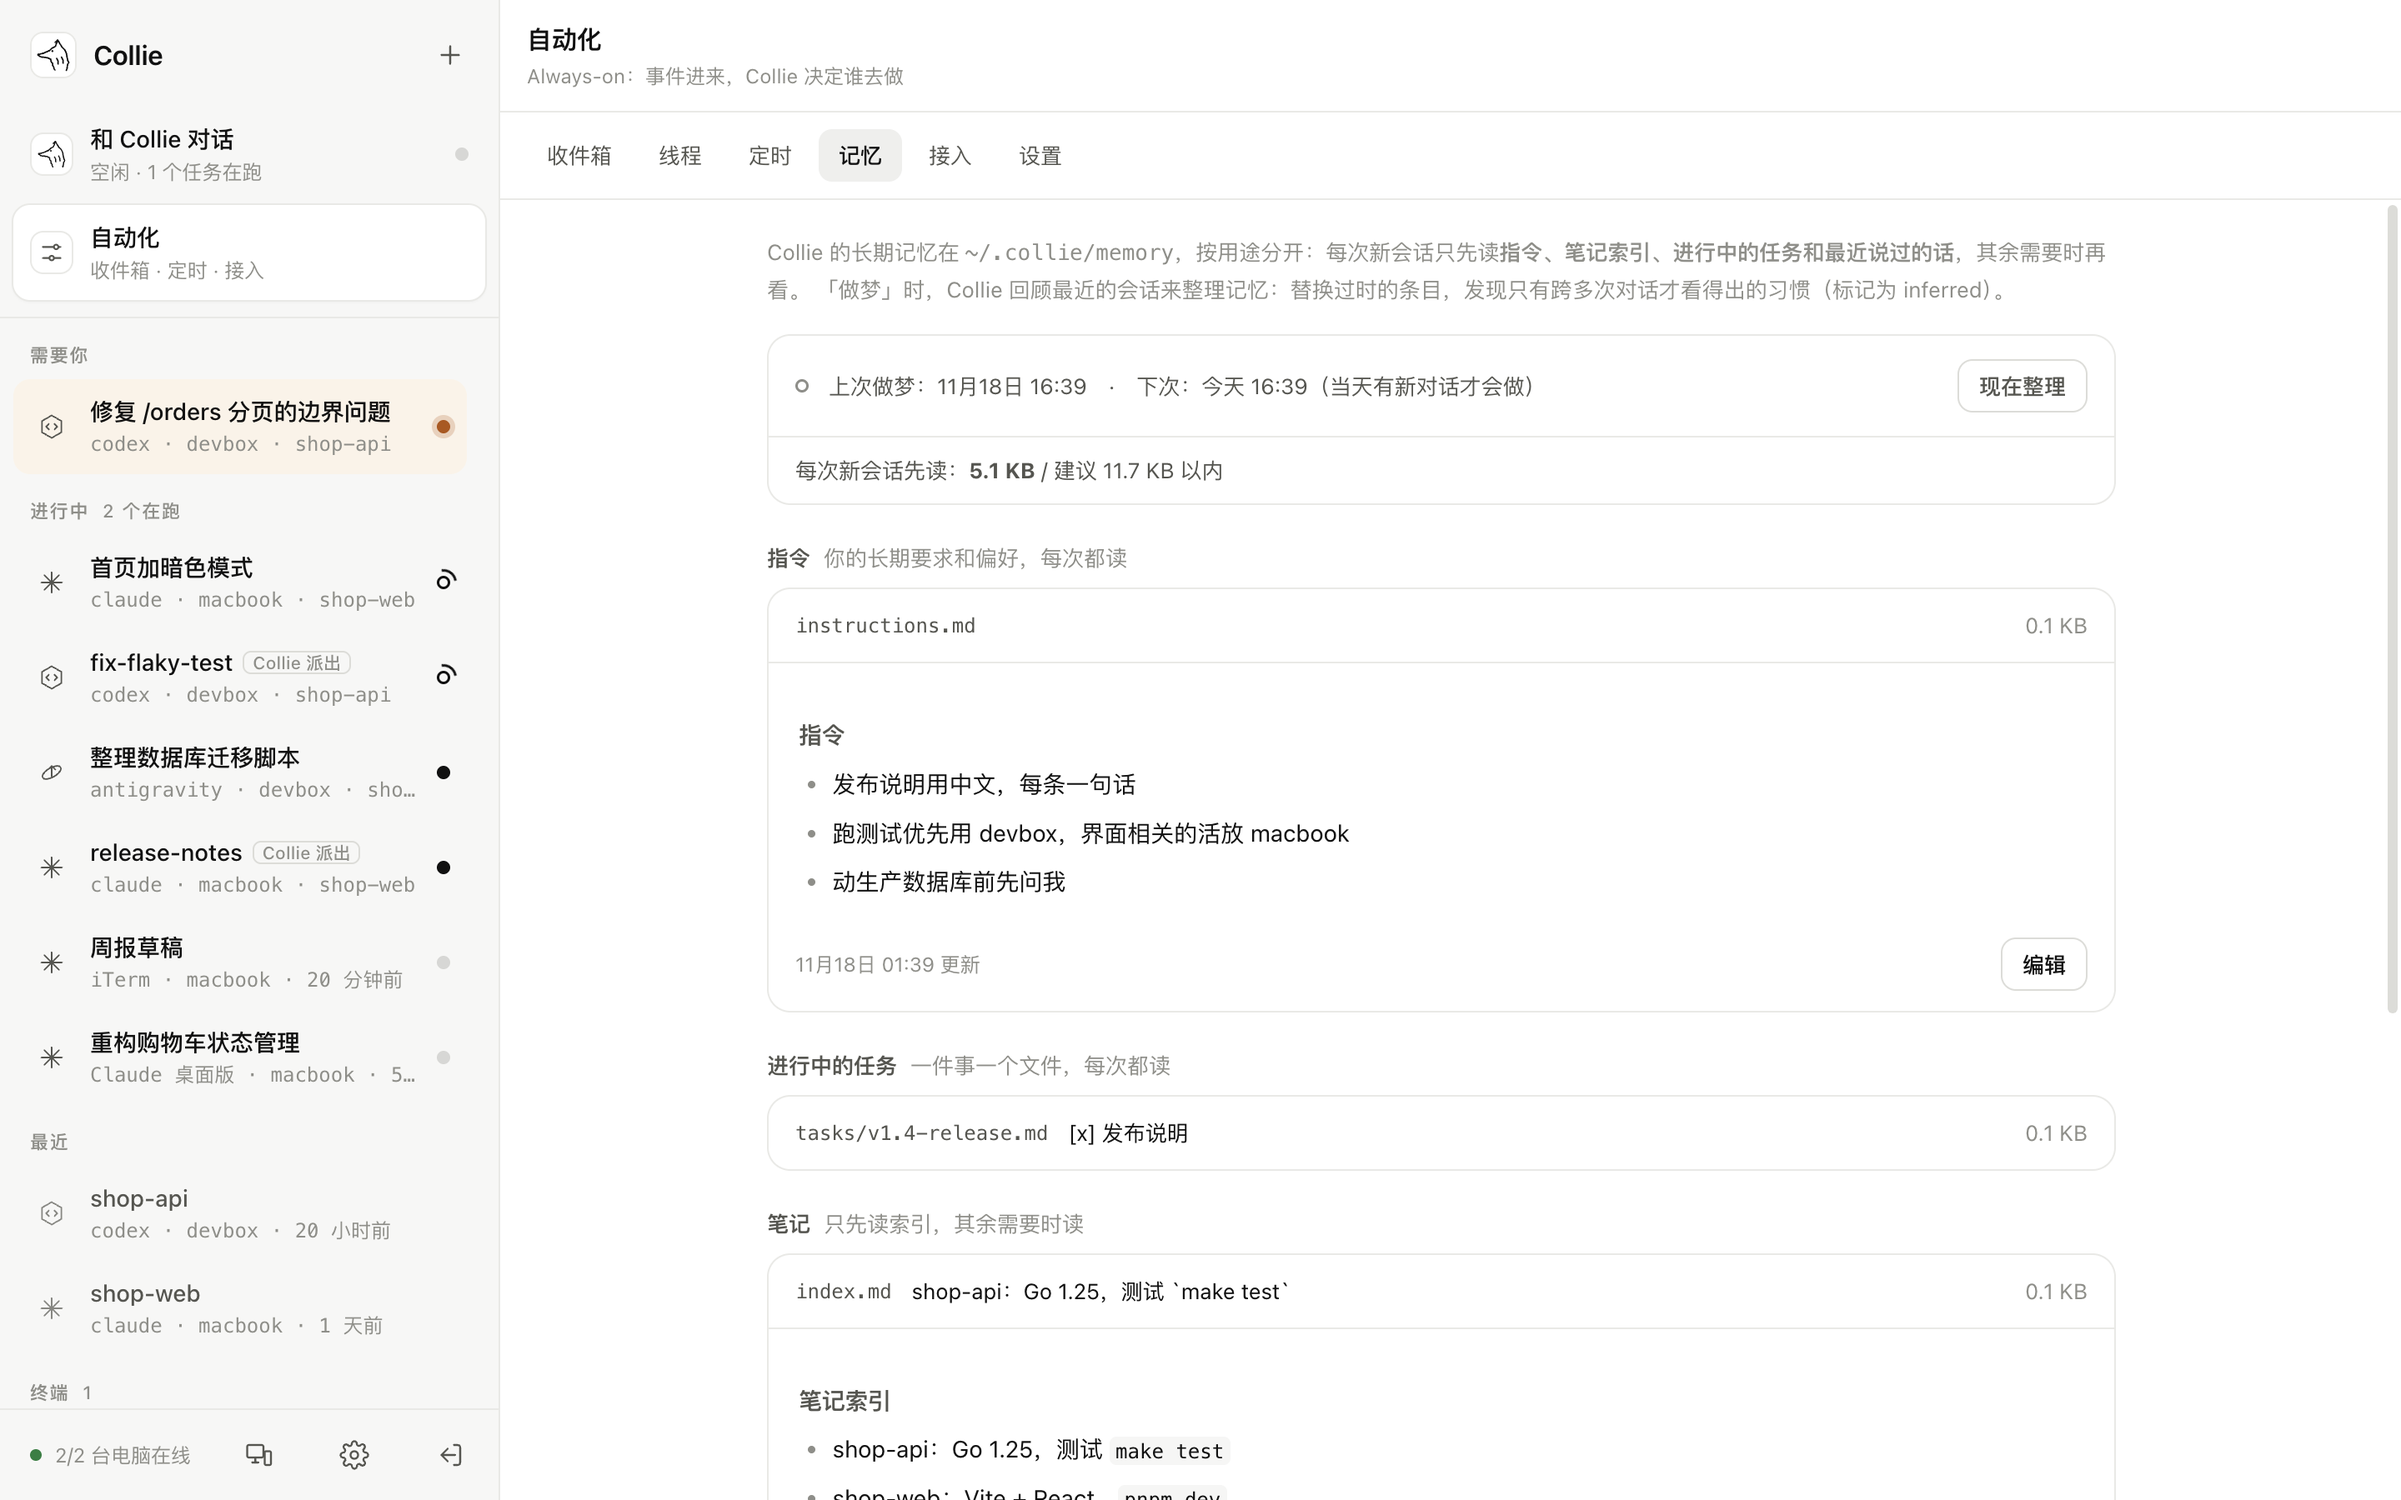
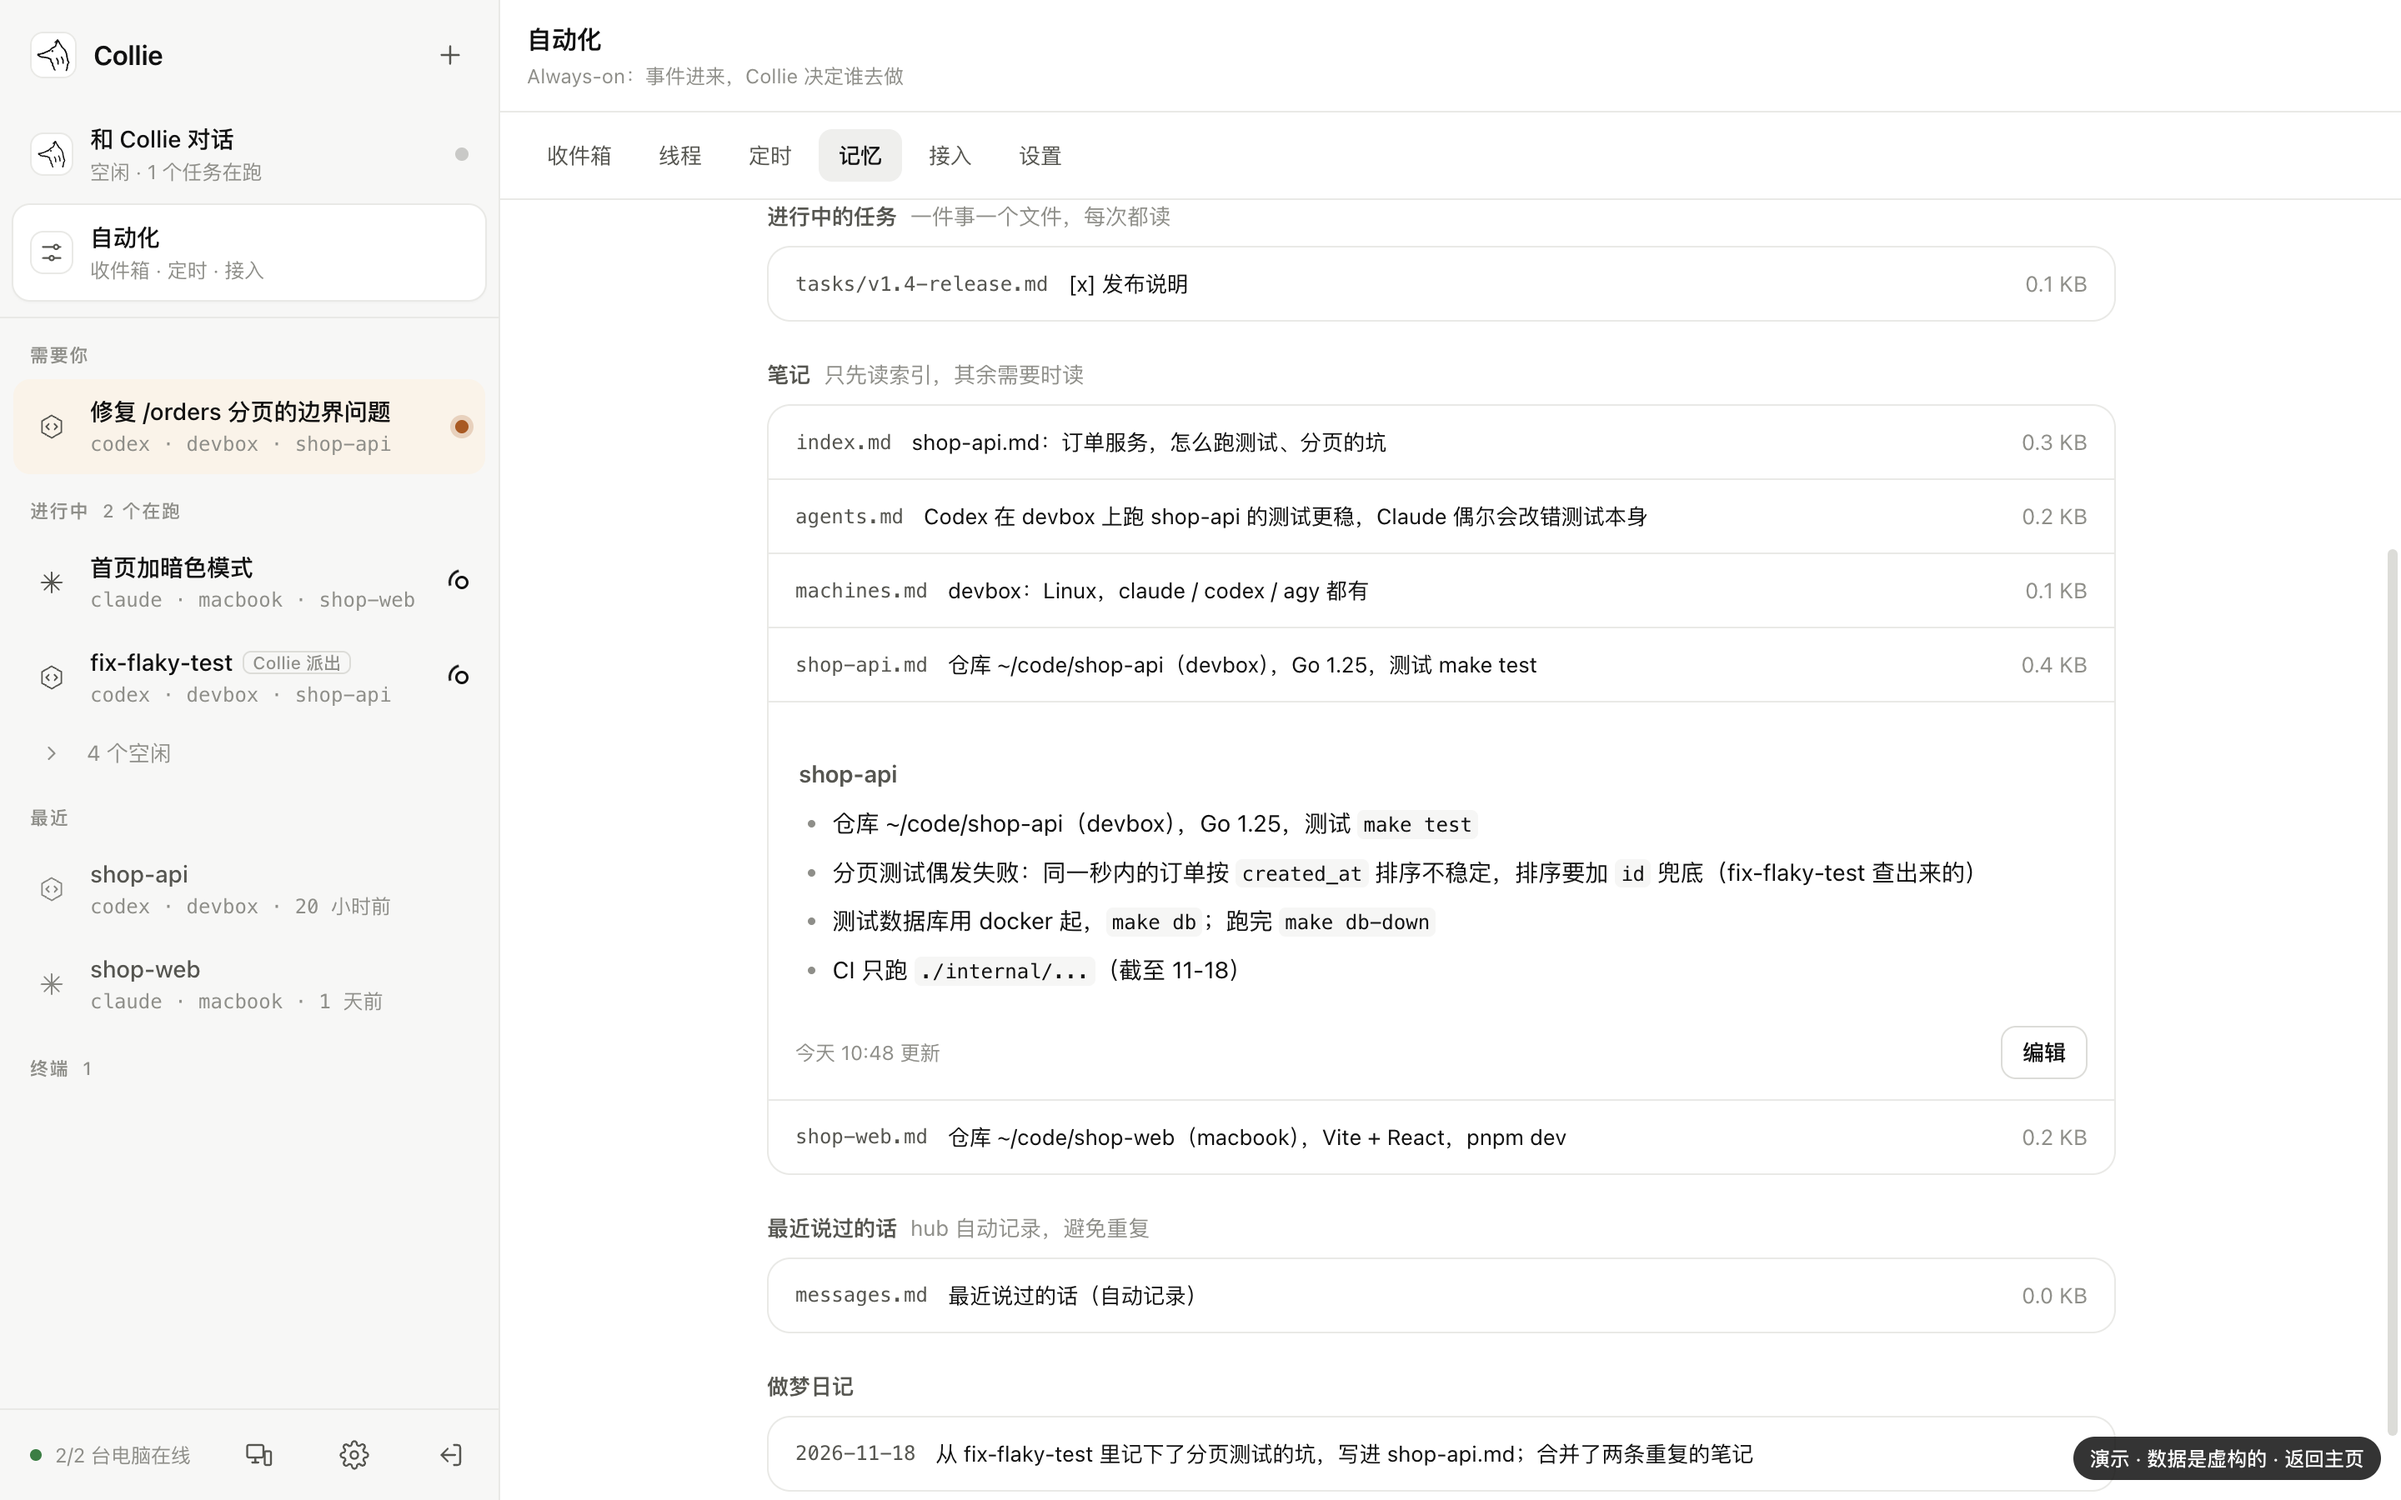
Homepage and README: Collie learns from finished work; memory screenshot shows project notes

diff --git a/docs/demo/demo.js b/docs/demo/demo.js
@@ -146,12 +146,16 @@
   const memFile = (name, text, min) => ({ name, text, size: text.length * 2, mod: ago(min) });
   const memory = {
     dir: "~/.collie", loaded: 5200, budget: 12000, dreaming: false, last_dream: ago(60 * 9), next_dream: later(60 * 15), dreams: [
-      { name: "2026-11-18.md", text: "# 昨天\n- 你更喜欢先在 devbox 上跑测试，再在 Mac 上看界面（inferred）\n- 合并了两条重复的笔记" },
+      { name: "2026-11-18.md", text: "从 fix-flaky-test 里记下了分页测试的坑，写进 shop-api.md；合并了两条重复的笔记\n\n- shop-api.md：同一秒内的订单按 created_at 排序不稳定，要加 id 兜底\n- agents.md：Codex 在 devbox 上跑 shop-api 的测试更稳\n- 你更喜欢先在 devbox 上跑测试，再在 Mac 上看界面（inferred）" },
     ],
     files: [
       memFile("instructions.md", "# 指令\n- 发布说明用中文，每条一句话\n- 跑测试优先用 devbox，界面相关的活放 macbook\n- 动生产数据库前先问我", 60 * 24),
       memFile("tasks/v1.4-release.md", "# v1.4 发布\n- [x] 发布说明\n- [ ] 分页测试修复（fix-flaky-test）\n- [ ] 开 PR", 6),
-      memFile("notes/index.md", "# 笔记索引\n- shop-api：Go 1.25，测试 `make test`\n- shop-web：Vite + React，`pnpm dev`", 60 * 30),
+      memFile("notes/index.md", "# 笔记索引\n- shop-api.md：订单服务，怎么跑测试、分页的坑\n- shop-web.md：前端，怎么起、发布说明放哪\n- agents.md：哪个 agent 在哪台电脑上好用\n- machines.md：devbox 和 macbook 各装了什么", 60 * 30),
+      memFile("notes/shop-api.md", "# shop-api\n- 仓库 ~/code/shop-api（devbox），Go 1.25，测试 `make test`\n- 分页测试偶发失败：同一秒内的订单按 `created_at` 排序不稳定，排序要加 `id` 兜底（fix-flaky-test 查出来的）\n- 测试数据库用 docker 起，`make db`；跑完 `make db-down`\n- CI 只跑 `./internal/...`（截至 11-18）", 60 * 9),
+      memFile("notes/shop-web.md", "# shop-web\n- 仓库 ~/code/shop-web（macbook），Vite + React，`pnpm dev`\n- 发布说明写在 CHANGELOG.md，按「需要注意 / 改动」两段", 60 * 30),
+      memFile("notes/agents.md", "# agent 经验\n- Codex 在 devbox 上跑 shop-api 的测试更稳，Claude 偶尔会改错测试本身\n- 界面相关的活给 macbook 上的 Claude\n- macbook 上没装 Antigravity", 60 * 9),
+      memFile("notes/machines.md", "# 电脑\n- devbox：Linux，claude / codex / agy 都有\n- macbook：claude、codex；周末常关机", 60 * 24 * 3),
       memFile("messages.md", "最近说过的话（自动记录）", 5),
     ],
   };

diff --git a/scripts/demo/demo.js b/scripts/demo/demo.js
@@ -146,12 +146,16 @@
   const memFile = (name, text, min) => ({ name, text, size: text.length * 2, mod: ago(min) });
   const memory = {
     dir: "~/.collie", loaded: 5200, budget: 12000, dreaming: false, last_dream: ago(60 * 9), next_dream: later(60 * 15), dreams: [
-      { name: "2026-11-18.md", text: "# 昨天\n- 你更喜欢先在 devbox 上跑测试，再在 Mac 上看界面（inferred）\n- 合并了两条重复的笔记" },
+      { name: "2026-11-18.md", text: "从 fix-flaky-test 里记下了分页测试的坑，写进 shop-api.md；合并了两条重复的笔记\n\n- shop-api.md：同一秒内的订单按 created_at 排序不稳定，要加 id 兜底\n- agents.md：Codex 在 devbox 上跑 shop-api 的测试更稳\n- 你更喜欢先在 devbox 上跑测试，再在 Mac 上看界面（inferred）" },
     ],
     files: [
       memFile("instructions.md", "# 指令\n- 发布说明用中文，每条一句话\n- 跑测试优先用 devbox，界面相关的活放 macbook\n- 动生产数据库前先问我", 60 * 24),
       memFile("tasks/v1.4-release.md", "# v1.4 发布\n- [x] 发布说明\n- [ ] 分页测试修复（fix-flaky-test）\n- [ ] 开 PR", 6),
-      memFile("notes/index.md", "# 笔记索引\n- shop-api：Go 1.25，测试 `make test`\n- shop-web：Vite + React，`pnpm dev`", 60 * 30),
+      memFile("notes/index.md", "# 笔记索引\n- shop-api.md：订单服务，怎么跑测试、分页的坑\n- shop-web.md：前端，怎么起、发布说明放哪\n- agents.md：哪个 agent 在哪台电脑上好用\n- machines.md：devbox 和 macbook 各装了什么", 60 * 30),
+      memFile("notes/shop-api.md", "# shop-api\n- 仓库 ~/code/shop-api（devbox），Go 1.25，测试 `make test`\n- 分页测试偶发失败：同一秒内的订单按 `created_at` 排序不稳定，排序要加 `id` 兜底（fix-flaky-test 查出来的）\n- 测试数据库用 docker 起，`make db`；跑完 `make db-down`\n- CI 只跑 `./internal/...`（截至 11-18）", 60 * 9),
+      memFile("notes/shop-web.md", "# shop-web\n- 仓库 ~/code/shop-web（macbook），Vite + React，`pnpm dev`\n- 发布说明写在 CHANGELOG.md，按「需要注意 / 改动」两段", 60 * 30),
+      memFile("notes/agents.md", "# agent 经验\n- Codex 在 devbox 上跑 shop-api 的测试更稳，Claude 偶尔会改错测试本身\n- 界面相关的活给 macbook 上的 Claude\n- macbook 上没装 Antigravity", 60 * 9),
+      memFile("notes/machines.md", "# 电脑\n- devbox：Linux，claude / codex / agy 都有\n- macbook：claude、codex；周末常关机", 60 * 24 * 3),
       memFile("messages.md", "最近说过的话（自动记录）", 5),
     ],
   };

diff --git a/docs/index.html b/docs/index.html
@@ -246,7 +246,7 @@ footer a { color: var(--fg-2); }
           <ul>
             <li>选哪个 agent、哪台电脑、哪个模型，它根据上下文自己定</li>
             <li>GitHub 评论、飞书消息、定时器都能变成任务</li>
-            <li>长期记忆：记住你的偏好，每晚「做梦」整理一次</li>
+            <li>越用越会派活：记住你的偏好和每次干活的经验，下次派活直接带上</li>
           </ul>
         </div>
         <div class="shot"><picture><img src="img/hero-light.png" alt="和 Collie 对话：派出两个 worker，一个已经回报" loading="lazy"></picture></div>
@@ -287,7 +287,7 @@ footer a { color: var(--fg-2); }
           <h3>事件进来，Collie 决定谁去做</h3>
           <p>你的消息、webhook、定时器和 worker 的回报都进同一个收件箱。先按来源策略过滤，订阅了线程的 worker 直接收到，其余交给 Collie 判断。</p>
           <ul>
-            <li>记忆按用途分开：指令、进行中的任务、笔记，每次只先读需要的</li>
+            <li>记忆按用途分开：你的偏好、进行中的任务、按项目整理的笔记，每晚「做梦」整理一次</li>
             <li>所有状态都在 SQLite，Collie 随时可以重启，事件不会丢</li>
           </ul>
         </div>

diff --git a/docs/demo/app.js b/docs/demo/app.js
@@ -813,7 +813,7 @@
     const over = r.loaded > r.budget;
     const dream = r.dreaming ? `<b>Collie 正在做梦</b>：回顾最近的对话，整理记忆。整理完会自己醒来，期间的消息会先攒着。`
       : `上次做梦：${r.last_dream ? dayTime(r.last_dream) : "还没有"}　·　下次：${r.next_dream ? dayTime(r.next_dream) + "（当天有新对话才会做）" : "已关闭"}`;
-    const firstLine = (t, dflt) => t.split("\n").filter((l) => !/^\s*#/.test(l)).map((l) => l.replace(/^[>*\-\s]+/, "").trim()).find(Boolean) || dflt;
+    const firstLine = (t, dflt) => t.split("\n").filter((l) => !/^\s*#/.test(l)).map((l) => l.replace(/^[>*\-\s]+/, "").replace(/`|\*\*/g, "").trim()).find(Boolean) || dflt;
     const card = (f, o = {}) => {
       const edit = !f.legacy && o.edit !== false;
       return `<details class="mem-fold" ${o.open ? "open" : ""} data-path="${esc(f.name)}"><summary>

diff --git a/web/app.js b/web/app.js
@@ -813,7 +813,7 @@
     const over = r.loaded > r.budget;
     const dream = r.dreaming ? `<b>Collie 正在做梦</b>：回顾最近的对话，整理记忆。整理完会自己醒来，期间的消息会先攒着。`
       : `上次做梦：${r.last_dream ? dayTime(r.last_dream) : "还没有"}　·　下次：${r.next_dream ? dayTime(r.next_dream) + "（当天有新对话才会做）" : "已关闭"}`;
-    const firstLine = (t, dflt) => t.split("\n").filter((l) => !/^\s*#/.test(l)).map((l) => l.replace(/^[>*\-\s]+/, "").trim()).find(Boolean) || dflt;
+    const firstLine = (t, dflt) => t.split("\n").filter((l) => !/^\s*#/.test(l)).map((l) => l.replace(/^[>*\-\s]+/, "").replace(/`|\*\*/g, "").trim()).find(Boolean) || dflt;
     const card = (f, o = {}) => {
       const edit = !f.legacy && o.edit !== false;
       return `<details class="mem-fold" ${o.open ? "open" : ""} data-path="${esc(f.name)}"><summary>

diff --git a/README.md b/README.md
@@ -25,6 +25,7 @@ Claude Code · Codex · Antigravity — 一个 hub，多台电脑，一个会自
 - **所有电脑合在一处** — Mac、开发机、云电脑连到一个 hub；电脑主动连出去，不开端口、不配 SSH，在 NAT 后面也行
 - **读真正的对话** — 直接读 agent 自己的会话记录，终端变成清晰的对话；也能切到原样的屏幕和日志
 - **自己往前推** — worker 失败了重试、换模型、换思路；只有花钱、删东西、发布这类事才停下来问你
+- **越用越会派活** — 记住你的偏好和每次干活的经验：数据在哪、怎么做的、踩过的坑、哪个 agent 在哪台电脑上好用，下次派活直接带上
 - **一个二进制，数据在你手里** — 单个 Go 程序 + SQLite，前端内嵌；每台设备一个令牌，随时移除；不经过第三方服务
 
 <table>
@@ -230,7 +231,7 @@ Collie 同时支持 herdr 0.8 和 0.9：
 | `node.json` | 仅 node：hub 地址、本机 id 和令牌 |
 | `token` | 访问令牌 |
 | `addr` | 当前监听地址，供 CLI 使用 |
-| `router/` | Router 的工作目录：`ROUTER.md`（操作手册，同时写成 CLAUDE.md / AGENTS.md / GEMINI.md）、`memory.md`（长期记忆） |
+| `router/` | Router 的工作目录：`ROUTER.md`（操作手册，同时写成 CLAUDE.md / AGENTS.md / GEMINI.md）、`memory/`（长期记忆：你的偏好、进行中的任务、按项目整理的笔记） |
 | `bin/collie` | 用 `go run` 启动时复制出的稳定 CLI 路径 |
 
 ## 从源码构建
